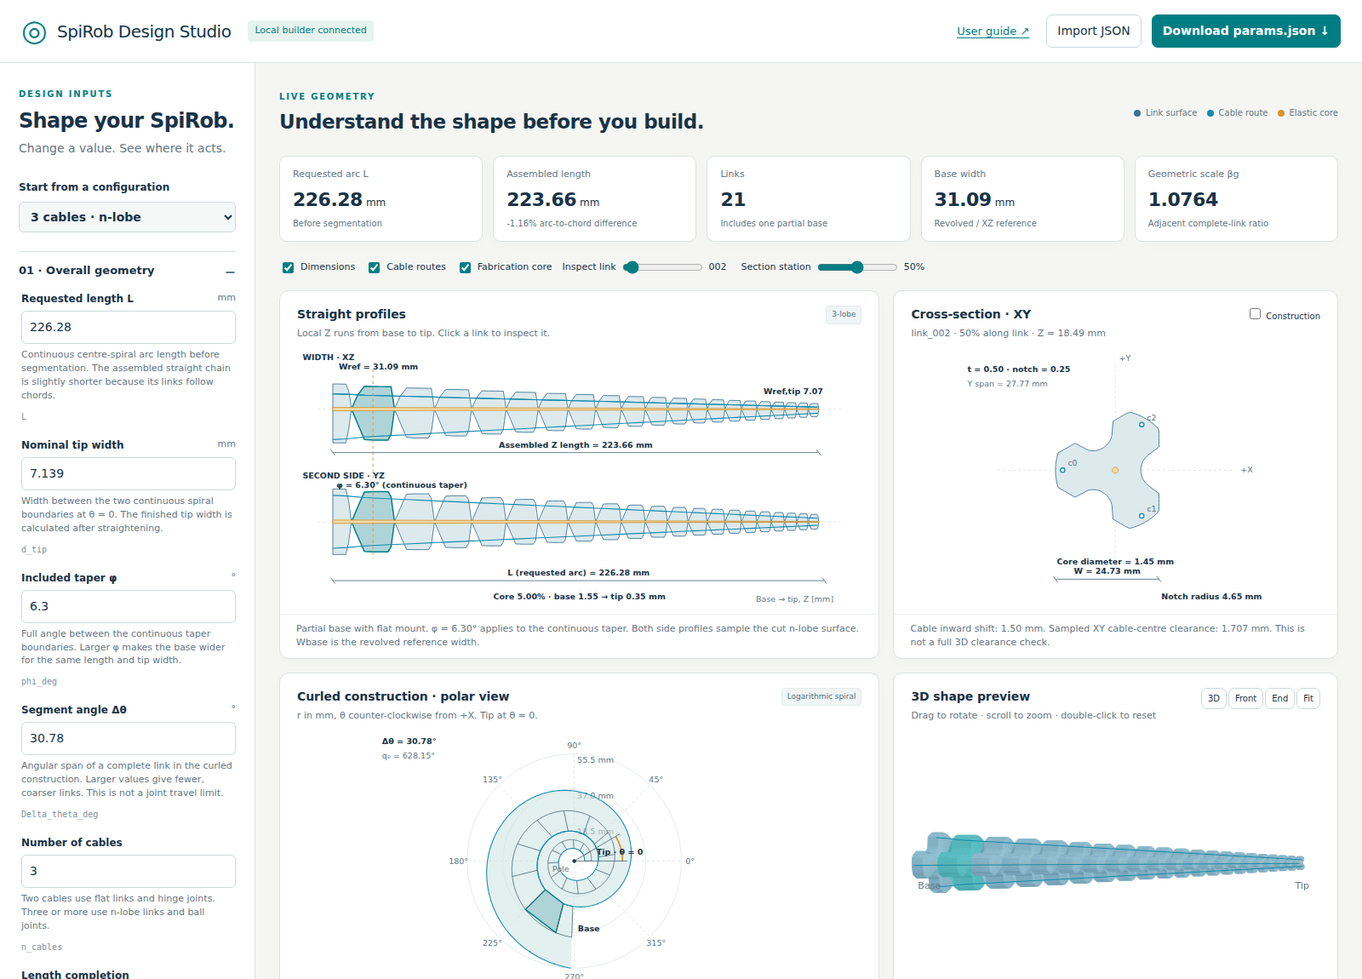
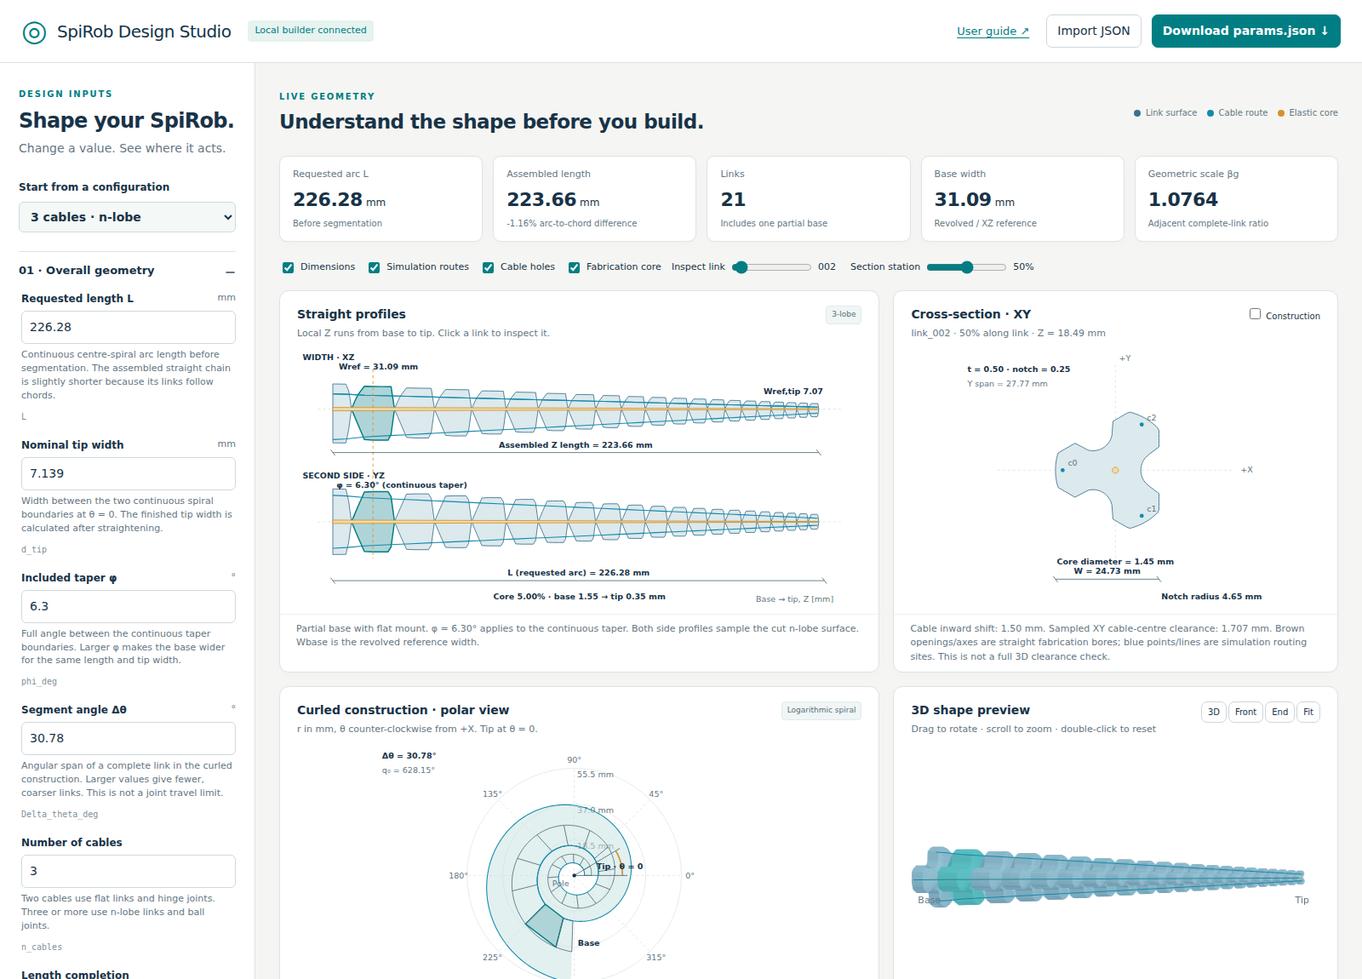
Cut straight validated cable bores and preview hole openings

diff --git a/site/index.html b/site/index.html
@@ -64,7 +64,8 @@
           <label
             ><input id="dimensions" type="checkbox" checked /> Dimensions</label
           ><label
-            ><input id="routes" type="checkbox" checked /> Cable routes</label
+            ><input id="routes" type="checkbox" checked /> Simulation routes</label
+          ><label><input id="holes" type="checkbox" checked /> Cable holes</label
           ><label><input id="core" type="checkbox" checked /> Fabrication core</label
           ><label
             >Inspect link
@@ -160,8 +161,7 @@
               aria-label="Rotatable sampled SpiRob surface"
             ></canvas>
             <div class="card-note">
-              Sampled outer surface and tapered core. Drilled channels and the final fused solid are
-              verified in the generated CAD, not this preview.
+              Sampled surface with straight bore openings (set cable-hole diameter above zero). Interior bore walls are omitted in this preview. Blue lines show the separate simulation route; use End view to inspect openings. The generated CAD verifies the full bores.
             </div>
           </section>
         </div>

diff --git a/spirob/pipeline/cad_export.py b/spirob/pipeline/cad_export.py
@@ -161,20 +161,17 @@ def build_cad(units, geometry, params, *, profile='fabrication', plain=False,
     else:
         combined = cq.Compound.makeCompound(shapes)
     before_volume = combined.Volume()
-    if hole:
-        for path in geometry.tendon_paths:
-            pts = [cq.Vector(*(round(v*1000, 9) for v in p.routed_m)) for p in path.points]
-            d0 = (pts[1]-pts[0]).normalized()
-            d1 = (pts[-1]-pts[-2]).normalized()
-            extension = z1-z0
-            pts = [pts[0]-d0*extension] + pts + [pts[-1]+d1*extension]
-            wire = cq.Wire.makePolygon(pts, close=False)
-            tool = cq.Workplane(cq.Plane(origin=pts[0], normal=d0)).circle(hole/2).sweep(
-                wire, isFrenet=True, transition='round').val()
-            if not tool.isValid(): raise ValueError(f'Cable {path.cable_index}: invalid hole tool')
-            combined = combined.cut(tool).clean()
-        if before_volume-combined.Volume() <= 1e-6:
-            raise ValueError('Cable paths removed no material; inspect routing')
+    from spirob.fabrication_routes import cable_hole_axes, cylinder_for_axis
+    axes = cable_hole_axes(geometry) if hole else []
+    for axis in axes:
+        # One straight cylinder: no rounded sweep joints, self-intersections,
+        # spherical/toric transition patches, or long remote extensions.
+        tool = cylinder_for_axis(axis, hole)
+        combined = combined.cut(tool).clean()
+        if not combined.intersect(tool).Volume() <= 1e-6:
+            raise ValueError(f"Cable {axis['cable_index']}: material obstructs the bore")
+    if hole and before_volume-combined.Volume() <= 1e-6:
+        raise ValueError('Cable paths removed no material; inspect routing')
     if not combined.isValid() or combined.Volume() <= 0:
         raise ValueError('CAD boolean operations produced invalid geometry')
     solid_count = len(combined.Solids())
@@ -188,6 +185,8 @@ def build_cad(units, geometry, params, *, profile='fabrication', plain=False,
                       'thickness_scales_with_link': (profile == 'simulation' or scaled_flat) if n == 2 and not plain else None, 'solid_count': solid_count, 'valid': True, 'unique_link_solids_built': len(templates) if templates else len(units),
                       'elastic_core': core_report if profile == 'fabrication' else None,
                       'cable_hole_diameter_mm': hole,
+                      'cable_hole_route': 'straight between first and last simulation anchors, extended to end planes',
+                      'cable_hole_axes_csv_frame': axes,
                       'flat_centre_thickness_mm': thickness if n == 2 and profile == 'fabrication' else None,
                       'flat_edge_ratio': (params['hex_edge_ratio'] if hex_section else 1. if scaled_flat else edge) if n == 2 and profile == 'fabrication' else None,
                       'removed_hole_volume_mm3': before_volume-combined.Volume()}
@@ -219,7 +218,9 @@ def process_cad(csv_file, params, *, outdir='cad', prefix='spirob', fuse=False,
     dest = Path(outdir); dest.mkdir(parents=True, exist_ok=True)
     step, stl, manifest = (dest/f'{prefix}{ext}' for ext in ('.step', '.stl', '_cad_report.json'))
     cq.exporters.export(shape, str(step))  # mm geometry and STEP's mm declaration agree
-    shape.exportStl(str(stl), tolerance=stl_tolerance*1000, relative=False)
+    # Resolve small bores accurately enough that STL facets do not close them.
+    mesh_tolerance_mm = min(stl_tolerance*1000, cable_hole_diameter_mm*.005) if cable_hole_diameter_mm else stl_tolerance*1000
+    shape.exportStl(str(stl), tolerance=mesh_tolerance_mm, relative=False)
     import trimesh
     mesh = trimesh.load(str(stl), force='mesh')
     # Remove duplicate/zero-area tessellation faces and weld numerically identical
@@ -234,6 +235,24 @@ def process_cad(csv_file, params, *, outdir='cad', prefix='spirob', fuse=False,
     check_mesh = trimesh.load(str(stl), force='mesh')
     if profile == 'fabrication' and not check_mesh.is_volume:
         raise ValueError('Fabrication STL round-trip validation failed')
+    if profile == 'fabrication' and len(check_mesh.split(only_watertight=False)) != 1:
+        raise ValueError('Fabrication STL contains detached components')
+    if cable_hole_diameter_mm:
+        import numpy as np
+        from spirob.fabrication_routes import cable_hole_axes
+        for axis in cable_hole_axes(geometry):
+            a=np.array(axis['base_m'])*1000; b=np.array(axis['tip_m'])*1000
+            a[2]-=geometry.units[0].local_frame_origin_m[2]*1000
+            b[2]-=geometry.units[0].local_frame_origin_m[2]*1000
+            d=(b-a)/np.linalg.norm(b-a)
+            u=np.cross(d,[0,1,0]);u/=np.linalg.norm(u);v=np.cross(d,u)
+            origins=[a-d*cable_hole_diameter_mm*2]
+            for r in (.25,.475):
+                origins.extend(a-d*cable_hole_diameter_mm*2+cable_hole_diameter_mm*r*(u*np.cos(t)+v*np.sin(t)) for t in np.linspace(0,2*np.pi,16,endpoint=False))
+            hits,_,_=check_mesh.ray.intersects_location(np.array(origins),np.tile(d,(len(origins),1)))
+            if len(hits): raise ValueError('STL contains material obstructing a sampled cable-bore probe')
+        report['stl_bore_check']={'method':'33 axial rays per bore through centre and rings up to 95% diameter','passed':True}
+    report['stl_tolerance_mm']=mesh_tolerance_mm
     report.update({'stl_watertight':bool(check_mesh.is_watertight),
                    'stl_oriented_volume':bool(check_mesh.is_volume),
                    'stl_vertex_merge_decimal_places_mm':7})
@@ -251,11 +270,23 @@ def process_cad(csv_file, params, *, outdir='cad', prefix='spirob', fuse=False,
                    'notes':['Fabrication flexure and lens dimensions require mechanical calibration.',
                             'Cable holes are optional; zero diameter leaves undrilled geometry.',
                             'Single valid solid is a topology check, not a print/process qualification.']})
+    if cable_hole_diameter_mm:
+        from spirob.fabrication_routes import cable_hole_axes, cylinder_for_axis
+        residuals=[]
+        for axis in cable_hole_axes(geometry):
+            probe=cylinder_for_axis(axis, cable_hole_diameter_mm*.999,
+                                    geometry.units[0].local_frame_origin_m[2])
+            residual=restored.intersect(probe).Volume()
+            if residual > 1e-6:
+                raise ValueError('STEP round-trip has material inside a cable bore')
+            residuals.append(residual)
+        report['bore_check']={'method':'full-length 99.9%-diameter cylinder intersection',
+                              'residual_volumes_mm3':residuals,'tolerance_mm3':1e-6}
     iges_path = None
     if iges:
         from OCP.IGESControl import IGESControl_Writer, IGESControl_Reader
         from OCP.IFSelect import IFSelect_RetDone
-        writer = IGESControl_Writer('MM', 0)
+        writer = IGESControl_Writer('MM', 1)  # BRep mode preserves trimmed face topology.
         iges_path = dest / f'{prefix}.iges'
         if not writer.AddShape(shape.wrapped) or not writer.Write(str(iges_path)):
             raise ValueError('IGES export failed')
@@ -264,9 +295,21 @@ def process_cad(csv_file, params, *, outdir='cad', prefix='spirob', fuse=False,
             raise ValueError('IGES round-trip import failed')
         restored_iges = cq.Shape.cast(reader.OneShape())
         ib = restored_iges.BoundingBox()
-        if max(abs(x-y) for x,y in zip((ib.xlen,ib.ylen,ib.zlen),(bb.xlen,bb.ylen,bb.zlen))) > .01:
+        if max(abs(x-y) for x,y in zip((ib.xmin,ib.ymin,ib.zmin,ib.xmax,ib.ymax,ib.zmax),(bb.xmin,bb.ymin,bb.zmin,bb.xmax,bb.ymax,bb.zmax))) > .01:
             raise ValueError('IGES round-trip dimensions differ by more than 0.01 mm')
-        report['iges'] = {'units':'mm', 'representation':'surfaces', 'round_trip_bounds_tolerance_mm':.01}
+        if len(restored_iges.Faces()) != len(shape.Faces()):
+            raise ValueError('IGES round-trip changed the trimmed face count')
+        if len(restored_iges.Solids()) != len(shape.Solids()):
+            raise ValueError('IGES round-trip changed the solid count')
+        if cable_hole_diameter_mm:
+            for axis in cable_hole_axes(geometry):
+                probe=cylinder_for_axis(axis,cable_hole_diameter_mm*.999,
+                                        geometry.units[0].local_frame_origin_m[2])
+                if restored_iges.intersect(probe).Volume() > 1e-6:
+                    raise ValueError('IGES round-trip has material inside a cable bore')
+        report['iges'] = {'units':'mm', 'representation':'trimmed BRep', 'round_trip_bounds_tolerance_mm':.01,
+                          'round_trip_solid_count':len(restored_iges.Solids()),'round_trip_face_count':len(restored_iges.Faces()),
+                          'bore_probe_passed':True if cable_hole_diameter_mm else None}
         report['files'][iges_path.name] = hashlib.sha256(iges_path.read_bytes()).hexdigest()
     manifest.write_text(json.dumps(report, indent=2)+'\n', encoding='utf-8')
     print(f'CAD: {step}, {stl}; {len(units)} elements, {report["solid_count"]} solid(s), millimetres')
@@ -281,7 +324,7 @@ def main():
     p.add_argument('--profile',choices=['fabrication','simulation'],default='fabrication', help='fabrication adds flexures/channels; simulation assembles rigid link surfaces')
     p.add_argument('--fuse',action='store_true', help='Fuse the simulation assembly when possible')
     p.add_argument('--plain',action='store_true', help='Use a circular revolved section')
-    p.add_argument('--iges',action='store_true', help='Also export IGES surfaces in mm and validate round-trip dimensions')
+    p.add_argument('--iges',action='store_true', help='Also export trimmed IGES BRep in mm and validate round-trip dimensions')
     p.add_argument('--flat-thickness-m',type=float, help='Legacy fabrication lens thickness in metres; current sections use base-thickness-mm'); p.add_argument('--flat-edge-ratio',type=float, help='Legacy fabrication lens edge / centre thickness in (0,1]')
     p.add_argument('--neck-width-mm',type=float, help='Legacy base core width/diameter in mm; converted to a tapered width percentage')
     p.add_argument('--elastic-core-percent',type=float, help='Core X width (2 cables) or diameter (n cables) as percent of local reference width; default 5')

diff --git a/tests/test_straight_bores.py b/tests/test_straight_bores.py
@@ -1,0 +1,57 @@
+"""Verify the manufacturing route independently of the MJCF polyline."""
+import json
+from pathlib import Path
+import subprocess
+import sys
+import numpy as np
+import pytest
+import cadquery as cq
+import trimesh
+from spirob.geometry import from_params
+from spirob.fabrication_routes import cable_hole_axes
+
+ROOT=Path(__file__).resolve().parents[1]
+
+@pytest.mark.parametrize('n',[2,3,4])
+@pytest.mark.parametrize('policy',['exact_requested_length','whole_units'])
+def test_straight_endpoints_match_browser(n,policy):
+    p=json.loads((ROOT/'params.json').read_text());p.update(n_cables=n,terminal_unit_policy=policy)
+    g=from_params(p);axes=cable_hole_axes(g)
+    script="import fs from 'node:fs';import {derive} from './site/geometry.mjs';import {boreAxes} from './site/holes.mjs';console.log(JSON.stringify(boreAxes(derive(JSON.parse(fs.readFileSync(0,'utf8'))))));"
+    r=subprocess.run(['node','--input-type=module','-e',script],cwd=ROOT,input=json.dumps(p),text=True,capture_output=True,check=True)
+    for a,b,path in zip(axes,json.loads(r.stdout),g.tendon_paths):
+        np.testing.assert_allclose([a['base_m'],a['tip_m']],[b['base'],b['tip']],atol=1e-13)
+        direction=np.array(a['tip_m'])-a['base_m']
+        for pt in [path.points[0],path.points[-1]]:
+            assert np.linalg.norm(np.cross(np.array(pt.routed_m)-a['base_m'],direction))<1e-15
+
+@pytest.mark.parametrize('profile,policy',[('constant','exact_requested_length'),('linear','exact_requested_length'),('constant','whole_units')])
+def test_exports_have_open_bores_without_round_transition_faces(tmp_path,profile,policy):
+    p=json.loads((ROOT/'examples/params-two-cable.json').read_text())
+    p.update(L=.06,thickness_profile=profile,base_thickness_m=.015,terminal_unit_policy=policy)
+    p['build'].update(cad=True,iges=True,cable_hole_diameter_mm=1.6)
+    src=tmp_path/'params.json';src.write_text(json.dumps(p));out=tmp_path/'model'
+    r=subprocess.run([sys.executable,str(ROOT/'build.py'),'--params',str(src),'--no-preview','--output-dir',str(out)],capture_output=True,text=True)
+    assert r.returncode==0,r.stdout+r.stderr
+    report=json.loads((out/'cad/spirob_cad_report.json').read_text())
+    assert max(report['bore_check']['residual_volumes_mm3'])<1e-6
+    assert report['stl_bore_check']['passed']
+    step=cq.importers.importStep(str(out/'cad/spirob.step')).val()
+    assert not any(f.geomType() in ('SPHERE','TORUS','REVOLUTION') for f in step.Faces())
+    from OCP.IGESControl import IGESControl_Reader
+    reader=IGESControl_Reader();reader.ReadFile(str(out/'cad/spirob.iges'));reader.TransferRoots()
+    iges=cq.Shape.cast(reader.OneShape())
+    assert len(iges.Solids())==len(step.Solids())==1
+    assert len(iges.Faces())==len(step.Faces())
+    for shape in [step,iges]:
+        b=shape.BoundingBox()
+        assert b.zmin>=-1e-5
+        assert b.zmax==pytest.approx(from_params(p).lengths.discrete_chord_length_m*1000,abs=1e-5)
+    mesh=trimesh.load(out/'cad/spirob.stl',force='mesh')
+    assert mesh.is_volume and len(mesh.split())==1
+    # Reimported IGES must also contain a full-length unobstructed bore.
+    from spirob.fabrication_routes import cylinder_for_axis
+    g=from_params(p)
+    for axis in cable_hole_axes(g):
+        pin=cylinder_for_axis(axis,1.599,g.units[0].local_frame_origin_m[2])
+        assert iges.intersect(pin).Volume()<1e-6

diff --git a/spirob/fabrication_routes.py b/spirob/fabrication_routes.py
@@ -1,0 +1,28 @@
+"""Straight manufacturing bores, distinct from calibrated MJCF routing sites."""
+import numpy as np
+
+
+def cable_hole_axes(geometry):
+    z0=geometry.units[0].local_frame_origin_m[2]
+    z1=geometry.units[-1].slit_reference_m[2]
+    result=[]
+    for path in geometry.tendon_paths:
+        a=np.asarray(path.points[0].routed_m)
+        b=np.asarray(path.points[-1].routed_m)
+        slope=(b-a)/(b[2]-a[2])
+        base=a+slope*(z0-a[2]);tip=a+slope*(z1-a[2])
+        direction=slope/np.linalg.norm(slope)
+        deviations=[float(np.linalg.norm(np.cross(np.asarray(p.routed_m)-base,direction))) for p in path.points]
+        result.append(dict(cable_index=path.cable_index,base_m=base.tolist(),tip_m=tip.tolist(),
+                           max_simulation_route_deviation_mm=max(deviations)*1000))
+    return result
+
+
+def cylinder_for_axis(axis, diameter_mm, z_origin_m=0., clearance_mm=None):
+    import cadquery as cq
+    a=np.asarray(axis['base_m'])*1000; b=np.asarray(axis['tip_m'])*1000
+    a[2]-=z_origin_m*1000;b[2]-=z_origin_m*1000
+    d=b-a;length=np.linalg.norm(d);d/=length
+    extension=max(diameter_mm, .1) if clearance_mm is None else clearance_mm
+    return cq.Solid.makeCylinder(diameter_mm/2,length+2*extension,
+                                 cq.Vector(*(a-d*extension)),cq.Vector(*d))

diff --git a/build.py b/build.py
@@ -68,7 +68,7 @@ def main(argv=None):
     for name, help_text in [('safe','Capsule preset with conservative solver settings; explicit collision-mode wins'), ('fast','Faster, softer preset for exploratory runs'), ('high','Higher solver accuracy preset; does not guarantee stability')]:
         physics.add_argument('--'+name, action='store_true', help=help_text)
     p.add_argument('--cad',action=argparse.BooleanOptionalAction, default=None, help='Export whole-robot STEP and millimetre STL with a CAD validation report')
-    p.add_argument('--iges',action=argparse.BooleanOptionalAction, default=None, help='Also export an IGES surface model; requires --cad or build.cad=true')
+    p.add_argument('--iges',action=argparse.BooleanOptionalAction, default=None, help='Also export a trimmed IGES BRep model; requires --cad or build.cad=true')
     p.add_argument('--fuse-cad',action=argparse.BooleanOptionalAction, default=None, help='Fuse simulation CAD solids; fabrication is already fused; requires CAD')
     p.add_argument('--cad-profile',choices=['fabrication','simulation'],default=None, help='fabrication adds a central ligament and optional channels; simulation assembles link CAD')
     p.add_argument('--flat-thickness-m',type=float, help='Legacy stepped fabrication lens: full constant thickness in metres')

diff --git a/spirob/build_report.py b/spirob/build_report.py
@@ -138,6 +138,7 @@ def write_build_report(stage, params, geometry, model):
            'r_inner(θ) = a exp(bθ); r_outer(θ) = a E exp(bθ); E = exp(2πb). θ increases from tip to base.',
            'Core c(z) = (p/100) Wref(z): linear with axial distance, geometric at complete-link stations. Two-cable Y follows the selected thickness law.',
            'K_i = K0 / beta_j^(3(i−1)); D_i = D0 / beta_j^(3(i−1)); protected base overrides apply. These are assumptions, not material calibration.',
+           'Manufacturing bores are straight between first/last simulation anchors; MJCF routing sites are unchanged. Bore axes and clearance checks are recorded in cad/spirob_cad_report.json.',
            'Drawings use compiled simulation meshes; core dimensions are reference overlays. Fabrication channels/core are not simulation mass/contact geometry. CAD is in mm; simulation geometry is in metres.',
            'The report records the files at build time. Later edits with joint/sensor tools do not update this record; regenerate the build for a new record.']
     if params.get('thickness_profile') == 'constant':

diff --git a/README.md b/README.md
@@ -44,7 +44,7 @@ Every build compiles its XML before publishing outputs. Failed stages preserve t
 | `section_dimensions.json` | Two-cable base/tip thickness and per-link taper dimensions. |
 | `elastic_core_dimensions.json` | Core percentage, reference-width law and core dimensions at every joint and the tip. |
 | `cad/spirob.step`, `cad/spirob.stl` | Whole-robot manufacturing exports in **millimetres**, when CAD is enabled. |
-| `cad/spirob.iges` | Optional **surface** interchange in mm; STEP is preferred for solids. |
+| `cad/spirob.iges` | Optional **trimmed BRep** interchange in mm; STEP is preferred for solids. |
 | `cad/spirob_cad_report.json` | CAD validity, volumes, bounds, hashes and round-trip results. |
 | `spirob_aligned.mjb` | Optional compiled frame-alignment experiment tied to MuJoCo 3.3.5. |
 
@@ -141,7 +141,7 @@ These keys belong inside a `"build": {...}` object. The two example build entrie
 | `elastic_core_percent` | `5` (%) | Core **X width for 2 cables**, **diameter for n≥3**, as a percentage of the local continuous reference width. Strictly between 0 and 100; `5` means 5%. Narrows continuously from base to tip. |
 | `cable_hole_diameter_mm` | `0` mm | Fabrication channel diameter; 0 leaves CAD undrilled. Positive diameters require fabrication profile. Does not change tendon display width or simulation mass. |
 | `fuse_cad` | `false` | Fuse simulation-profile solids where possible. Fabrication is already fused. Requires CAD. |
-| `iges` | `false` | Also export IGES surfaces, in mm. Requires CAD; STEP remains the solid exchange format. |
+| `iges` | `false` | Also export trimmed IGES BRep, in mm. Requires CAD; STEP remains the preferred solid exchange format. |
 
 ![Core and cable-hole dimensions for two- and three-cable SpiRobs](docs/figures/fabrication-parameters.png)
 
@@ -455,3 +455,34 @@ Joint gains remain independently configured. Constant Y thickness breaks the
 all-dimensions-similar assumption behind cubic stiffness scaling; calibrate the
 gains for the manufactured design rather than treating the existing exponential
 law as a consequence of this geometry. Deploy the updated website after merging.
+
+
+## Cable bores and the partial base link
+
+Fabrication holes now use **one straight cylindrical cut per cable**, connecting
+that cable's first and last simulation routing anchors and extending to the base
+and tip planes. The old round-transition sweep followed every simulation routing
+segment and could introduce curved transition patches near the partial base.
+The cutter now extends only a small diameter-dependent clearance beyond the ends.
+
+The simulation's existing routing sites and dynamics are retained. They can
+therefore differ from the straight manufacturing axis, especially at a partial
+base. The CAD report records the maximum route deviation and both bore endpoints;
+this difference matters when comparing hardware to an existing calibrated model.
+Regenerate the CAD to apply the change; old downloads are unchanged.
+
+With a positive **Cable hole diameter**, the website's **Cable holes** checkbox
+shows bore openings in the cross-section and 3D preview and brown dashed straight
+axes on the side profiles. Blue **Simulation routes** remain independently
+switchable. Select **End** to see the openings. The 3D preview omits interior bore
+wall shading; the STEP/STL/IGES files contain the full cylindrical walls.
+
+Checks now include full-length bore-probe intersection on STEP, centre/ring ray
+checks on STL, a single connected STL component and tighter tessellation around
+small bores. IGES uses trimmed BRep export, with all six bounding coordinates and
+face count checked after reimport. CAD topology checks do not certify print
+settings, support generation or hole fit after printing.
+
+![Website cross-section showing the straight fabrication bores](docs/figures/cable-bore-preview.png)
+
+See [the bore update notes](docs/engineering/CABLE_BORE_UPDATE.md) for the route definition, export checks and findings from the supplied CAD files.

diff --git a/docs/engineering/CABLE_BORE_UPDATE.md b/docs/engineering/CABLE_BORE_UPDATE.md
@@ -1,0 +1,42 @@
+# Straight fabrication bores and trimmed IGES export
+
+The prior fabrication exporter swept a circle around every MJCF routing point
+with round transitions. Exact-length designs include a partial base, and its
+routing anchor does not lie on the continuation of the complete-link route.
+Round transitions introduce small revolution surfaces near that kink. Cutter
+extensions were one entire robot length, leaving remote analytic surface origins.
+
+The manufacturing route now uses the first and last routing anchors to define a
+single straight axis, extrapolated to the base and tip planes. Each bore is cut
+with one cylinder, extending only a diameter-dependent clearance past the ends.
+The MJCF route is not silently changed: changing it affects tendon lengths,
+moment arms and calibration. CAD reports record the difference in millimetres.
+
+Validation now checks a full-length 99.9%-diameter probe in STEP and IGES, and
+33 centre/ring rays through each STL bore up to 95% of its diameter. STL tolerance
+is capped at 0.5% of the bore diameter. Disconnected STL components are rejected.
+IGES uses mode 1 (trimmed BRep) and validates face count, solid count and all six
+bounding coordinates on reimport, not just the three bounding-box extents.
+
+The website displays the same axes, true elliptical XY bore intersections, and
+3D face openings. The sampled 3D display omits internal bore-wall shading and is
+not a substitute for the checked fabrication exports. Brown marks are bores;
+blue marks are the independent simulation routes. Hole visibility does not
+depend on the simulation-route checkbox. End view is oriented consistently with
+the XY cross-section; coincident base/tip labels are suppressed.
+
+## Uploaded-file diagnosis
+
+The inspected STEP was one valid solid; its STL was one closed connected volume.
+The IGES contained 298 trimmed faces and no face outside the same model bounds.
+There were no detached spherical solids. Six small revolution transition patches
+occurred around Z = 9.99 and 18.27 mm. Two base-hole cylinder surface origins were
+at Z = -227.109 mm, despite their trimmed faces being within the robot.
+Displaying untrimmed support geometry can therefore explain the reported remote
+cylinders, but this depends on the importing CAD application.
+
+Sampled centre lines of the base-region cylindrical segments were open in the
+supplied STEP. The physical print blockage is not conclusively diagnosed from
+these files: it must not be reported as a proven pair of solid spheres. The
+uploaded params.json and slicer project were not supplied. Regenerate from the
+original JSON to reproduce the exact design with the new bore construction.
